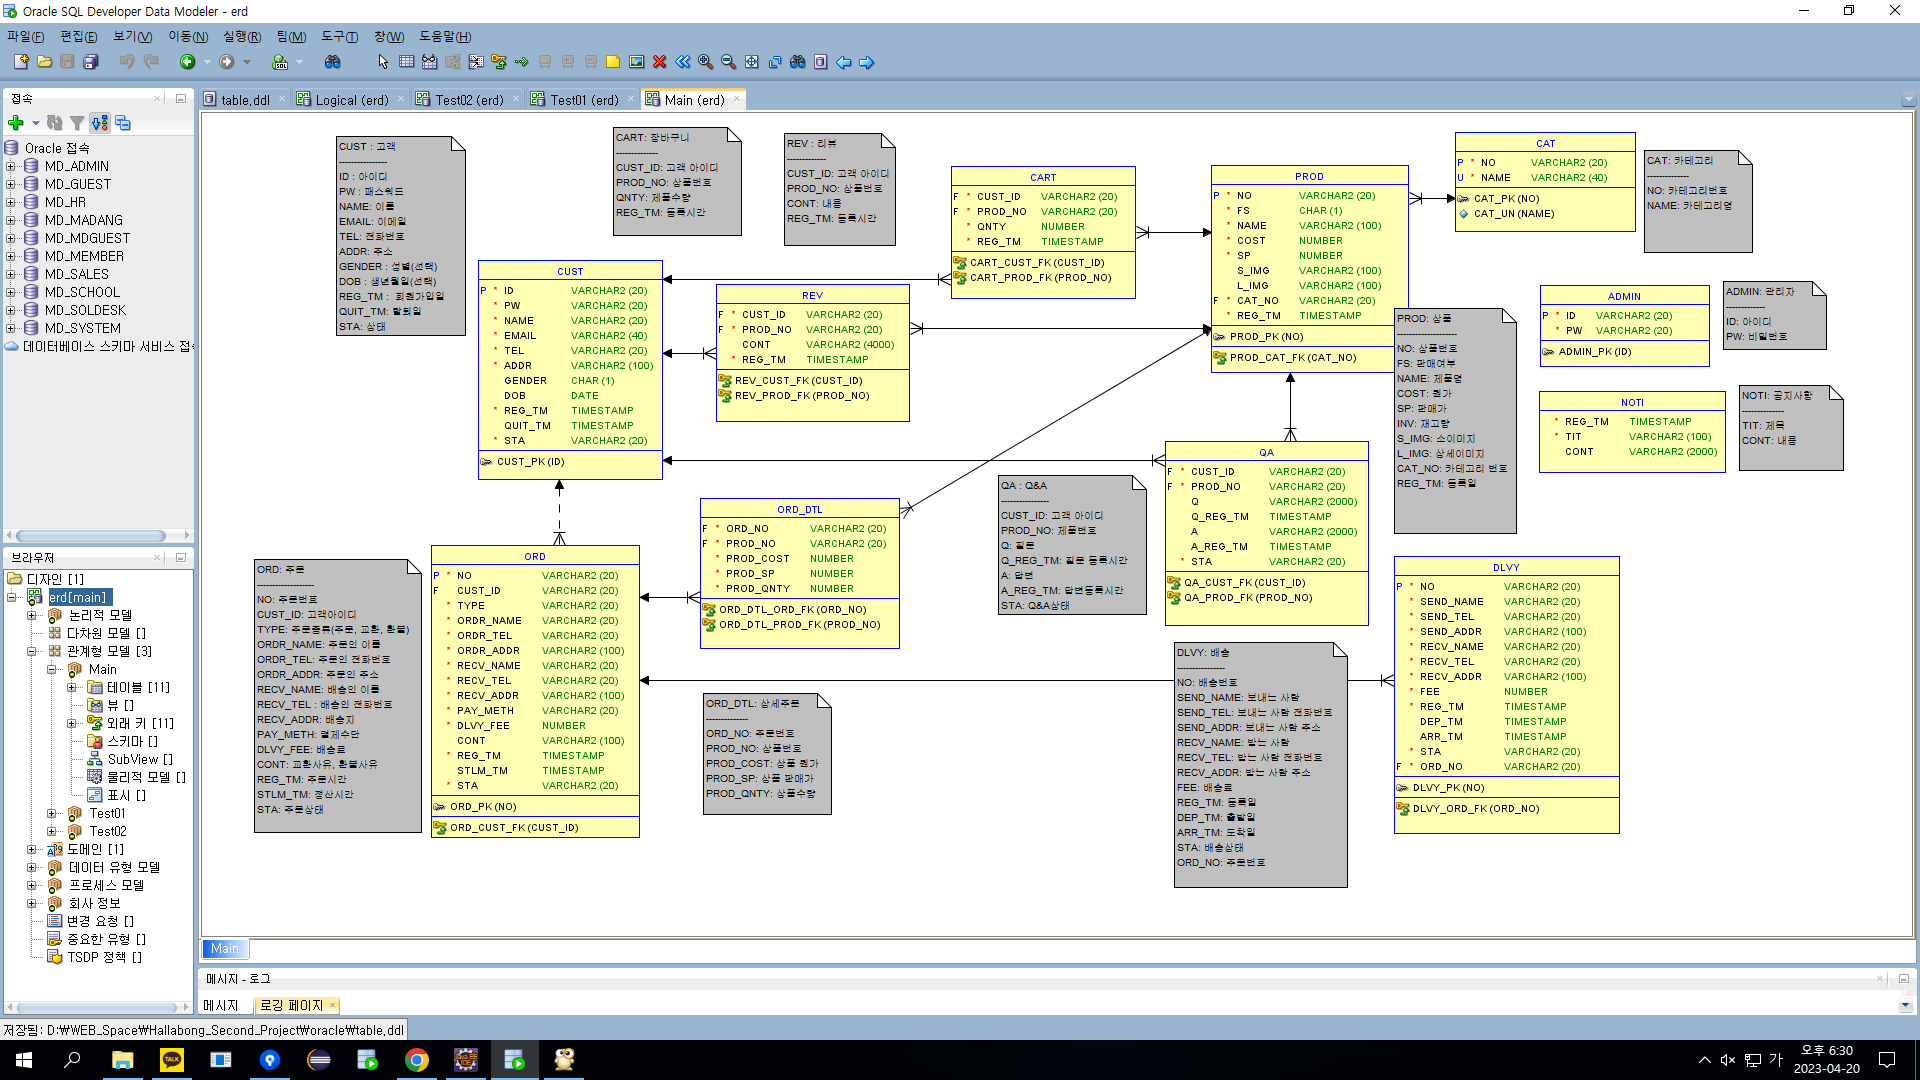
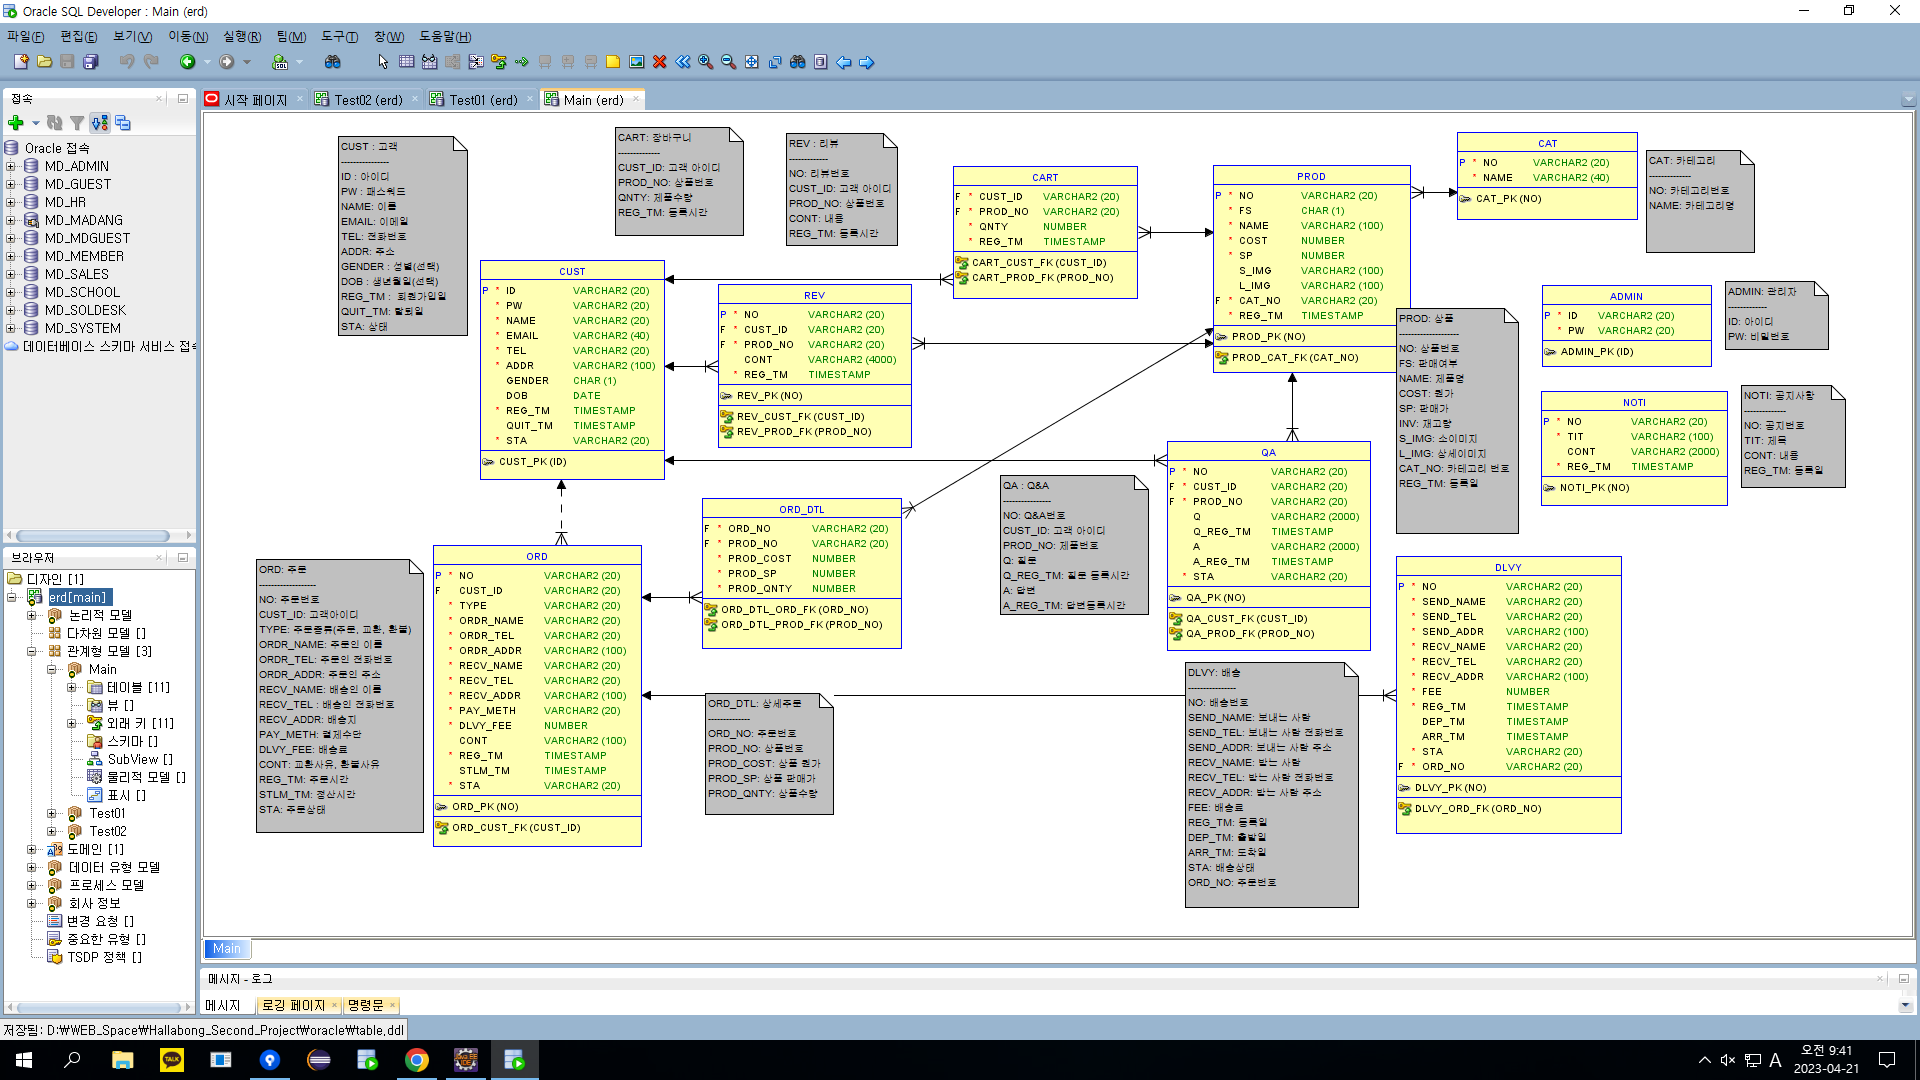
erd 수정, bean 클래스 수정

diff --git a/src/main/java/kr/co/hallabong/bean/NotiBean.java b/src/main/java/kr/co/hallabong/bean/NotiBean.java
@@ -5,8 +5,10 @@ import lombok.Setter;
 
 @Getter
 @Setter
+// 공지사항
 public class NotiBean {
-	private String reg_tm;
-	private String tit;
-	private String cont;
+	private String no; // 공지번호 default 이용
+	private String tit; // 제목
+	private String cont; // 내용
+	private String reg_tm; // 등록일 default 이용
 }

diff --git a/src/main/java/kr/co/hallabong/bean/OrdBean.java b/src/main/java/kr/co/hallabong/bean/OrdBean.java
@@ -7,7 +7,7 @@ import lombok.Setter;
 @Setter
 // 주문
 public class OrdBean {
-	private String no; // 주문번호
+	private String no; // 주문번호 default 이용
 	private String cust_id; // 고객아이디
 	private String type; // 주문종류 (주문: ord, 교환: ex, 환불: rtn)
 	private String ordr_name; // 주문인 이름

diff --git a/src/main/java/kr/co/hallabong/bean/DlvyBean.java b/src/main/java/kr/co/hallabong/bean/DlvyBean.java
@@ -7,7 +7,7 @@ import lombok.Setter;
 @Setter
 // 배송
 public class DlvyBean {
-	private String no; // 배송번호
+	private String no; // 배송번호 default 이용
 	private String send_name; // 보내는 사람
 	private String send_tel; // 보내는 사람 전화번호
 	private String send_addr; // 보내는 사람 주소

diff --git a/src/main/java/kr/co/hallabong/bean/ProdBean.java b/src/main/java/kr/co/hallabong/bean/ProdBean.java
@@ -7,7 +7,7 @@ import lombok.Setter;
 @Setter
 //상품
 public class ProdBean {
-	private String no; // 상품번호
+	private String no; // 상품번호 default 이용
 	private char fs; // 판매여부
 	private String name; // 제품명
 	private int cost; // 원가

diff --git a/src/main/java/kr/co/hallabong/bean/RevBean.java b/src/main/java/kr/co/hallabong/bean/RevBean.java
@@ -7,6 +7,7 @@ import lombok.Setter;
 @Setter
 // 리뷰
 public class RevBean {
+	private String no; // 리뷰번호 default 이용
 	private String cust_id; // 고객아이디
 	private String prod_no; // 상품번호
 	private String cont; // 내용

diff --git a/src/main/java/kr/co/hallabong/bean/QABean.java b/src/main/java/kr/co/hallabong/bean/QABean.java
@@ -7,6 +7,7 @@ import lombok.Setter;
 @Setter
 // Q&A
 public class QABean {
+	private String no; // Q&A번호 default 이용
 	private String cust_id; // 고객아이디
 	private String prod_no; // 상품번호
 	private String q; // 질문

diff --git a/src/main/java/kr/co/hallabong/bean/CatBean.java b/src/main/java/kr/co/hallabong/bean/CatBean.java
@@ -7,6 +7,6 @@ import lombok.Setter;
 @Setter
 // 카테고리
 public class CatBean {
-	private String no; // 카테고리 번호
+	private String no; // 카테고리 번호 default 이용
 	private String name; // 카테고리 이름
 }
